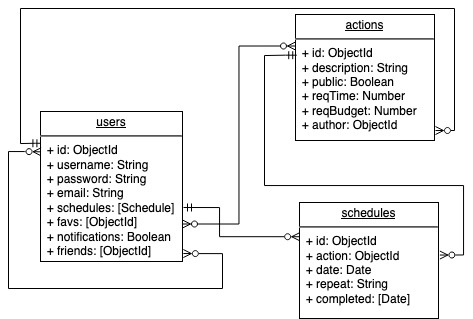
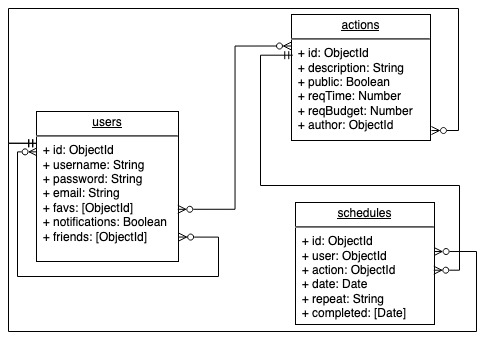
update logic methods

Changed region(s): [[0.0, 0.0, 1.0, 1.0]]

diff --git a/staff/maria-navarrete/full-stack/final-project/data/src/populate.js b/staff/maria-navarrete/full-stack/final-project/data/src/populate.js
@@ -2,8 +2,9 @@ const { connect, disconnect } = require('mongoose')
 const { User, Action, Schedule } = require('./models')
 
 let users
+let actions
 
-connect('mongodb://localhost:27017/beHuman-db')
+connect('mongodb://localhost:27017/beHooman-db')
     .then(() => console.log('connected'))
     .then(() => Promise.all([
         User.deleteMany(),
@@ -13,16 +14,19 @@ connect('mongodb://localhost:27017/beHuman-db')
     .then(() => {
         const anonymous = new User({ username: 'anonymous', email: 'anonymous@email.com', password:'123123123'})
         const gio = new User({ username: 'gio123', email: 'gio@mail.com', password: '123123123' })
-        const pau = new User({ username: 'pau123', email: 'pau@mail.com', password: '123123123' })
+        const pau = new User({ username: 'pau123', email: 'pau@mail.com', password: '123123123', notifications: true })
         const ju = new User({ username: 'ju123', email: 'ju@mail.com', password: '123123123' })
         const arvi = new User({ username: 'arvi123', email: 'arvi@mail.com', password: '123123123' })
         const mati = new User({ username: 'mati123', email: 'mati@mail.com', password: '123123123' })
+        
+        ju.friends.push(mati.id, pau.id)
+        mati.friends.push(gio.id, arvi.id)
 
         return Promise.all([anonymous.save(), gio.save(), pau.save(), ju.save(), arvi.save(), mati.save()])
     })
     .then(_users => {
         users = _users
-        const [gio, pau, ju, arvi, mati] = users
+        const [anonymous, gio, pau, ju, arvi, mati] = users
         const action1 = new Action({ description: 'Recoger basura en la calle', public: true, reqTime: 10, reqBudget: 0, author: gio.id})
         const action2 = new Action({ description: 'Hacer las compras a un anciano', public: true, reqTime: 90, reqBudget: 0, author: pau.id})
         const action3 = new Action({ description: 'Dar comida a alguien que lo necesite', public: true, reqTime: 20, reqBudget: 10, author: ju.id})
@@ -31,29 +35,27 @@ connect('mongodb://localhost:27017/beHuman-db')
 
         return Promise.all([action1.save(), action2.save(), action3.save(), action4.save(), action5.save()])
     })
-    .then(actions =>{
+    .then(_actions =>{
+        actions = _actions
         const [action1, action2, action3, action4, action5] = actions
-        const [gio, pau, ju, arvi, mati] = users
+        const [anonymous, gio, pau, ju, arvi, mati] = users
 
         const date1 = new Date('March 10, 2020 14:00:00')
 
-        const schedule1 = new Schedule({action: action1.id, date: date1, repeat:"weekly"})
-        gio.schedules.push(schedule1)
-        gio.favs.push(action4.id, action5.id)
+        const schedule1 = new Schedule({user: gio.id, action: action1.id, date: date1, repeat:"weekly"})
+        const schedule2 = new Schedule({user: pau.id, action: action3.id, date: date1, repeat:"monthly"})
+        const schedule3 = new Schedule({user: mati.id, action: action5.id, date: date1})
+        
+        return Promise.all([schedule1.save(), schedule2.save(), schedule3.save()])
+    })
+    .then(schedules =>{
+        const [action1, action2, action3, action4, action5] = actions
+        const [anonymous, gio, pau, ju, arvi, mati] = users
 
+        gio.favs.push(action4.id, action3.id)
         arvi.favs.push(action2.id, action3.id)
 
-        const schedule2 = new Schedule({action: action3.id, date: date1, repeat:"monthly"})
-        pau.schedules.push(schedule2)
-
-        const schedule3 = new Schedule({action: action5.id, date: date1})
-        ju.schedules.push(schedule3)
-
-        ju.friends.push(mati.id, pau.id)
-
-        mati.friends.push(gio.id, arvi.id)
-
-        return Promise.all([gio.save(), pau.save(), ju.save(), arvi.save(), mati.save()])
+        return Promise.all([gio.save(), arvi.save()])
     })
     
     .then(() => disconnect())

diff --git a/staff/maria-navarrete/full-stack/final-project/logic/src/demo.js b/staff/maria-navarrete/full-stack/final-project/logic/src/demo.js
@@ -11,14 +11,16 @@ const {
     toggleFavorite,
     toggleFriend,
     updateUser,
-    updateUserPassword
+    updateUserPassword,
+    createAction, 
+    updateAction
 } = require('./index')
 
-connect('mongodb://localhost:27017/beHuman-db')
+connect('mongodb://localhost:27017/beHooman-db')
     .then(() => Promise.all([
         User.deleteOne({ email: 'pepito@grillo.com' })
     ]))
-    
+
     .then(() => registerUser('pepitogrillo', 'pepito@grillo.com', '123123123'))
     .then(() => console.log('user registered'))
 
@@ -27,7 +29,7 @@ connect('mongodb://localhost:27017/beHuman-db')
 
     .then(() => authenticateUser('pepito@grillo.com', '123123123'))
     .then(userId => {
-        return updateUser(userId, { username: 'pepagrilla12', email: 'pepito@grillo.com', notifications: false })
+        return updateUser(userId, 'pepagrilla12', 'pepito@grillo.com', false)
             .then(() => console.log('user updated'))
     })
 
@@ -45,19 +47,19 @@ connect('mongodb://localhost:27017/beHuman-db')
 
     .then(() => authenticateUser('pepito@grillo.com', '123123123'))
     .then(userId => {
-        return updateUserPassword(userId, {currPassword:'123123123', newPassword:'234234234'})
+        return updateUserPassword(userId, '123123123', '234234234')
             .then(() => console.log('password updated'))
     })
 
     .then(() => authenticateUser('pepito@grillo.com', '234234234'))
     .then(userId => {
-        return toggleFavorite(userId, '6227604c0ae5ef6e69789e6a' )
+        return toggleFavorite(userId, '622888b02edb8a6c907bda88')
             .then(() => console.log('favorite toggled'))
     })
 
     .then(() => authenticateUser('pepito@grillo.com', '234234234'))
     .then(userId => {
-        return toggleFavorite(userId, '6227604c0ae5ef6e69789e67' )
+        return toggleFavorite(userId, '622888b02edb8a6c907bda89')
             .then(() => console.log('favorite toggled'))
     })
 
@@ -69,13 +71,13 @@ connect('mongodb://localhost:27017/beHuman-db')
 
     .then(() => authenticateUser('pepito@grillo.com', '234234234'))
     .then(userId => {
-        return toggleFriend(userId, '6227604c0ae5ef6e69789e5f' )
+        return toggleFriend(userId, '622888b02edb8a6c907bda7e')
             .then(() => console.log('friend toggled'))
     })
 
     .then(() => authenticateUser('pepito@grillo.com', '234234234'))
     .then(userId => {
-        return toggleFriend(userId, '6227604c0ae5ef6e69789e5d' )
+        return toggleFriend(userId, '622888b02edb8a6c907bda7d')
             .then(() => console.log('friend toggled'))
     })
 
@@ -84,6 +86,9 @@ connect('mongodb://localhost:27017/beHuman-db')
         return listFriends(userId)
             .then(friends => console.log(friends))
     })
+
+    .then(() => listUsers('a'))
+    .then(users => console.log(users))
 
     .then(() => authenticateUser('pepito@grillo.com', '234234234'))
     .then(userId => {

diff --git a/staff/maria-navarrete/full-stack/final-project/logic/src/actions/deleteAction.js b/staff/maria-navarrete/full-stack/final-project/logic/src/actions/deleteAction.js
@@ -1,0 +1,35 @@
+const { models: { Action, Schedule } } = require('data')
+const { validators: { validateId } } = require('commons')
+
+
+function deleteAction(userId, actionId) {
+    validateId(userId, 'user id')
+    validateId(actionId, 'Action id')
+
+    let anonymous
+
+
+    return User.findOne({ username: 'anonymous' })
+        .then(_anonymous => {
+            if (!_anonymous) throw new Error(`user anonymous doesn't exist`)
+            anonymous = _anonymous
+            return Schedule.find({ action: actionId })
+        })
+        .then(schedules => {
+            const index = schedules.findIndex(schedule => schedule.user !== userId)
+            if (index !== -1) {
+                return Action.updateOne({ _id: actionId, user: userId }, { author: anonymous.id })
+                    .then(result => {
+                        if (result.matchedCount === 0) throw new Error(`note with id ${noteId} and userId ${userId} does not exist`)
+                    })
+            }
+            else {
+                return Action.deleteOne({ _id: ActionId, user: userId })
+                    .then(result => {
+                        if (result.deletedCount === 0) throw new Error(`Action with id ${noteId} and user id ${userId} does not exist`)
+                    })
+        }
+        })
+}
+
+module.exports = deleteAction

diff --git a/staff/maria-navarrete/full-stack/final-project/logic/src/actions/updateAction.js b/staff/maria-navarrete/full-stack/final-project/logic/src/actions/updateAction.js
@@ -1,0 +1,25 @@
+const { models: { Action, Schedule } } = require("data")
+const { validators: { validateId, validateString, validateBoolean, validateNumber } } = require('commons')
+
+
+function updateAction(userId, actionId, description, public, reqTime, reqBudget) {
+    validateId(userId, 'userId')
+    validateId(actionId, 'actionId')
+    validateString(description, 'description')
+    validateBoolean(public, 'public')
+    validateNumber(reqTime, 'reqTime')
+    validateNumber(reqBudget, 'reqBudget')
+
+    return Schedule.find({ action: actionId })
+        .then(schedules => {
+            const index = schedules.findIndex(schedule => schedule.user !== userId)
+            if (index !== -1) throw new Error(`action with id ${actionId} is scheduled by other users`)
+
+            return Action.updateOne({ _id: actionId, user: userId }, { description, public, reqTime, reqBudget })
+                .then(result => {
+                    if (result.matchedCount === 0) throw new Error(`note with id ${noteId} and userId ${userId} does not exist`)
+                })
+        })
+}
+
+module.exports = updateAction

diff --git a/staff/maria-navarrete/full-stack/final-project/logic/src/user/listFriends.js b/staff/maria-navarrete/full-stack/final-project/logic/src/user/listFriends.js
@@ -3,13 +3,29 @@ const { validators: { validateId } } = require('commons')
 
 function listFriends(userId) {
     validateId(userId, 'userId')
-    return User.findById(userId)
+    return User.findById(userId).populate('friends')
         .then(user => {
 
             if(!user) throw new Error(`user with id ${userId} does not exist`)
 
-            return user.friends
+            const docs = user.friends.map(friend => {
+                const doc = friend._doc
+
+                doc.id = doc._id.toString()
+                delete doc._id
+                delete doc.__v
+                delete doc.email
+                delete doc.password
+                delete doc.favs
+                delete doc.notifications
+                delete doc.friends
+
+                return doc
+            })
+
+            return docs
         })
+        
 }
 
 module.exports = listFriends

diff --git a/staff/maria-navarrete/full-stack/final-project/logic/src/user/deleteUser.js b/staff/maria-navarrete/full-stack/final-project/logic/src/user/deleteUser.js
@@ -1,4 +1,4 @@
-const { models: { User, Action } } = require('data')
+const { models: { User, Action, Schedule } } = require('data')
 const { validators: { validateId, validatePassword } } = require('commons')
 
 
@@ -10,6 +10,11 @@ function deleteUser(userId, password) {
         .then(anonymous => {
             if (!anonymous) throw new Error(`user anonymous doesn't exist`)
             return Action.updateMany({ author: userId }, { author: anonymous.id })
+        })
+        .then(() => User.findOne({ _id: userId, password }))
+        .then(user => {
+            if (!user) throw new Error(`wrong user ${userId} or password`)
+            return Schedule.deleteMany({ user: userId })
         })
         .then(() => User.deleteOne({ _id: userId, password }))
         .then(result => {

diff --git a/staff/maria-navarrete/full-stack/final-project/logic/src/user/listUsers.js b/staff/maria-navarrete/full-stack/final-project/logic/src/user/listUsers.js
@@ -3,10 +3,9 @@ const { validators: { validateString } } = require('commons')
 
 function listUsers(query) {
     validateString(query, 'query')
-
-    return User.find({username:query})
+    return User.find({ username: { $regex: `${query}` } })
         .then(users => {
-            const docs = users.map(user=>{
+            const docs = users.map(user => {
                 const doc = user._doc
 
                 doc.id = doc._id.toString()
@@ -14,7 +13,6 @@ function listUsers(query) {
                 delete doc.__v
                 delete doc.email
                 delete doc.password
-                delete doc.schedules
                 delete doc.friends
                 delete doc.notifications
                 delete doc.favs

diff --git a/staff/maria-navarrete/full-stack/final-project/logic/src/user/listFavorites.js b/staff/maria-navarrete/full-stack/final-project/logic/src/user/listFavorites.js
@@ -3,12 +3,21 @@ const { validators: { validateId } } = require('commons')
 
 function listFavorites(userId) {
     validateId(userId, 'userId')
-    return User.findById(userId)
+    return User.findById(userId).populate('favs')
         .then(user => {
-
             if(!user) throw new Error(`user with id ${userId} does not exist`)
 
-            return user.favs
+            const docs = user.favs.map(fav =>{
+                const doc = fav._doc
+                doc.id = doc._id.toString()
+                doc.author = doc.author.toString()
+                delete doc._id
+                delete doc.__v
+                delete doc.public
+
+                return doc
+            })
+            return docs
         })
 }
 

diff --git a/staff/maria-navarrete/full-stack/final-project/logic/src/actions/createAction.js b/staff/maria-navarrete/full-stack/final-project/logic/src/actions/createAction.js
@@ -1,0 +1,16 @@
+const { validators: { validateId, validateString, validateBoolean, validateNumber } } = require('commons')
+const { models: { Action } } = require('data')
+
+function createAction (userId, description, public, reqTime, reqBudget) {
+    validateId(userId, 'userId')
+    validateString(description, 'description')
+    validateBoolean(public, 'public')
+    validateNumber(reqTime, 'reqTime')
+    validateNumber(reqBudget, 'reqBudget')
+
+    return Action.create({ author: userId, description, public, reqTime, reqBudget })
+        .then(action => { })
+}
+
+module.exports = createAction 
+

diff --git a/staff/maria-navarrete/full-stack/final-project/commons/src/validators.js b/staff/maria-navarrete/full-stack/final-project/commons/src/validators.js
@@ -74,6 +74,11 @@ function validateUsername(username) {
     if (SPACE_REGEX.test(username)) throw new Error(`username has empty spaces`)
 }
 
+function validateNumber(number, explain = 'number') {
+    if (typeof number !== 'number') throw new TypeError(`${explain} is not a number`)
+    if (number === '') throw new Error(`empty ${explain}`)
+}
+
 module.exports = {
     validateEmail,
     validatePassword,
@@ -81,5 +86,6 @@ module.exports = {
     validateString,
     validateId,
     validateBoolean,
-    validateUsername
+    validateUsername,
+    validateNumber
 }

diff --git a/staff/maria-navarrete/full-stack/final-project/logic/src/index.js b/staff/maria-navarrete/full-stack/final-project/logic/src/index.js
@@ -10,6 +10,8 @@ const toggleFavorite = require('./user/toggleFavorite')
 const toggleFriend = require('./user/toggleFriend')
 const updateUser = require('./user/updateUser')
 const updateUserPassword = require('./user/updateUserPassword')
+const createAction = require('./actions/createAction')
+const updateAction = require('./actions/createAction')
 
 module.exports={
     authenticateUser,
@@ -23,5 +25,7 @@ module.exports={
     toggleFavorite,
     toggleFriend,
     updateUser,
-    updateUserPassword
+    updateUserPassword,
+    createAction,
+    updateAction
 }

diff --git a/staff/maria-navarrete/full-stack/final-project/data/src/schemas/schedule.js b/staff/maria-navarrete/full-stack/final-project/data/src/schemas/schedule.js
@@ -2,6 +2,12 @@ const { Schema } = require('mongoose')
 const { Types: { ObjectId } } = Schema
 
 const schedule = new Schema({
+    user: {
+        type: ObjectId,
+        ref: 'User',
+        required: true
+    },  
+
     action: {
         type: ObjectId,
         ref: 'Action',
@@ -21,7 +27,7 @@ const schedule = new Schema({
     },
 
     completed: [{
-        type: Date,
+        type: Date
     }]
 })
 
